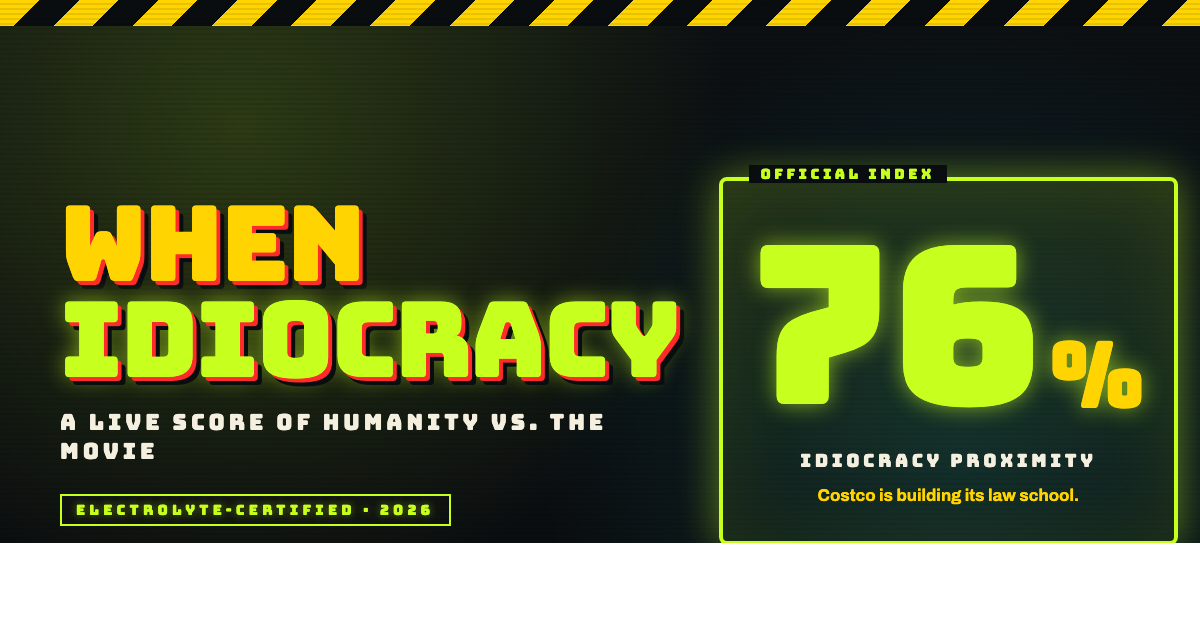
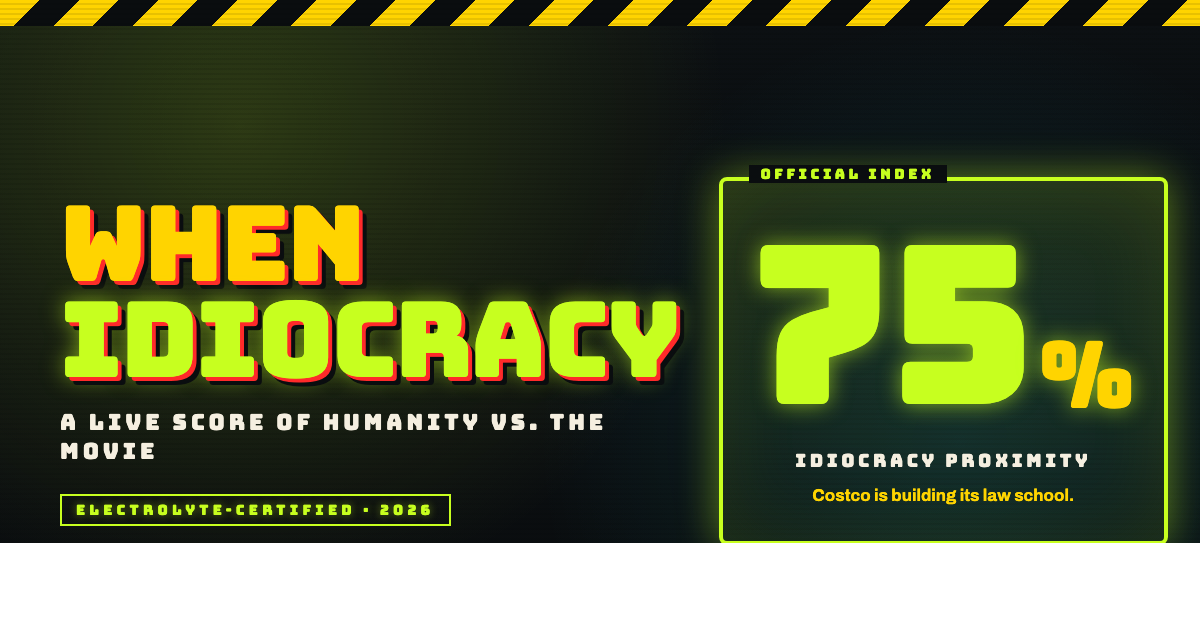
Lightning bolts + 5 new tells + script easter eggs
Stars → bolts
- The star icon is replaced by a Brawndo-style lightning bolt, tying the
  index to the movie's single most-quoted line ("electrolytes"). Bolts
  glow yellow idle, green when active, and one bolt at a time flickers on
  an 8-second idle animation.

New tells (14 → 19)
- oscar-for-ass       — spectacle-as-prestige (6 Underground, Barbie, AI slop)
- kim-k-lawyer        — law by TV/TikTok (Kardashian bar, Avianca ChatGPT brief)
- prison-entertainment — felons as celebrities (hot-felon, Jan 6 candidates,
                        Squid Game: The Challenge)
- liquid-food         — Beef-A-Reeno (Soylent, Huel, ultra-processed, GLP-1 collapse)
- mass-debaters       — 'batin' as product category (doomscrolling, Pornhub traffic,
                        Pew teen stats, Meta watch-time)

Easter eggs from the script
- Type "brawndo"  → 40 Brawndo cans rain + "IT'S GOT WHAT PLANTS CRAVE" banner
- Type "batin"    → flashing "GO AWAY, 'BATIN'!" toast
- Type "camacho"  → Camacho title-card toast
- Konami code     → toggles "Not Sure" mode — score gets a wobbly "?",
                   per-tell % gets "ish", label gains "...i think"
- URL hashes #brawndo / #batin / #notsure trigger the same
- Verdict in the gauge quietly rotates through secret movie lines every 22s
  ("I like money.", "Brawndo: the thirst mutilator.", "Ow, my balls.", etc.)
- Console shows a hint line on page load

OG card regenerated at the new 75% score.

diff --git a/data.js b/data.js
@@ -289,5 +289,105 @@ const TELLS = [
         title: "AI companion apps (Replika, Character.ai) pivot to paid romantic roleplay",
         source: "Wikipedia — Replika", url: "https://en.wikipedia.org/wiki/Replika" }
     ]
+  },
+  {
+    id: "oscar-for-ass",
+    title: "'Ass' wins Best Picture — spectacle beats story",
+    movie: "The #1 film of 2505 is a 90-minute shot of a man's rear end. It sweeps the Oscars.",
+    trend: "rising",
+    stars: [
+      { pct: 42, date: "Dec 13, 2019",
+        title: "Michael Bay's '6 Underground' — 83M Netflix views despite 36% Rotten Tomatoes",
+        source: "Wikipedia", url: "https://en.wikipedia.org/wiki/6_Underground_(film)" },
+      { pct: 56, date: "Jul 21, 2023",
+        title: "Barbie — a toy-brand IP film — grosses $1.45B, #1 film of the year",
+        source: "Wikipedia", url: "https://en.wikipedia.org/wiki/Barbie_(film)" },
+      { pct: 66, date: "May 2024",
+        title: "Spotify purges 'tens of millions' of AI-generated tracks gaming charts",
+        source: "Reuters", url: "https://www.reuters.com/technology/spotify-looks-crack-down-ai-generated-music-2024-04-09/" },
+      { pct: 72, date: "2023–present",
+        title: "Netflix top-10 increasingly dominated by minimal-effort reality and 'slop' content",
+        source: "Wikipedia — Content farm", url: "https://en.wikipedia.org/wiki/Content_farm" }
+    ]
+  },
+  {
+    id: "kim-k-lawyer",
+    title: "Law degrees by TV commercial",
+    movie: "Frito Pendejo, attorney at law. Extracto will extract a settlement. Please call.",
+    trend: "rising",
+    stars: [
+      { pct: 38, date: "Dec 13, 2021",
+        title: "Kim Kardashian passes California 'baby bar' via non-traditional study route",
+        source: "BBC", url: "https://www.bbc.com/news/world-us-canada-59644068" },
+      { pct: 54, date: "May 27, 2023",
+        title: "NY lawyer Steven Schwartz files ChatGPT brief citing hallucinated cases",
+        source: "NYT", url: "https://www.nytimes.com/2023/05/27/nyregion/avianca-airline-lawsuit-chatgpt.html" },
+      { pct: 66, date: "2021–present",
+        title: "TikTok attorneys drive mass class-action sign-ups via viral clips",
+        source: "ABA Journal", url: "https://www.abajournal.com/web/article/tiktok-is-the-new-ambulance-lawyers-go-viral" },
+      { pct: 71, date: "Jun 22, 2023",
+        title: "Judges issue first standing orders banning AI-generated filings without disclosure",
+        source: "Reuters", url: "https://www.reuters.com/legal/transactional/more-us-judges-issue-rules-courtroom-use-generative-ai-2023-09-08/" }
+    ]
+  },
+  {
+    id: "prison-entertainment",
+    title: "Rehabilitation Through Entertainment",
+    movie: "Prisoners drive Monster Trucks at 'Monday Night Rehabilitation' for the cheering crowds.",
+    trend: "rising",
+    stars: [
+      { pct: 38, date: "Jun 2014",
+        title: "Jeremy Meeks — the 'hot felon' — lands a modeling contract from his mugshot",
+        source: "Wikipedia", url: "https://en.wikipedia.org/wiki/Jeremy_Meeks" },
+      { pct: 52, date: "2018–present",
+        title: "True crime is the #1 podcast genre in the US for 6+ years running",
+        source: "Wikipedia", url: "https://en.wikipedia.org/wiki/True_crime" },
+      { pct: 66, date: "Nov 22, 2023",
+        title: "Squid Game: The Challenge — real people compete in the show's dystopian games",
+        source: "Wikipedia", url: "https://en.wikipedia.org/wiki/Squid_Game:_The_Challenge" },
+      { pct: 73, date: "2022–present",
+        title: "Jan 6 rioters run for Congress; mugshots become campaign merchandise",
+        source: "AP News", url: "https://apnews.com/article/jan-6-capitol-riot-defendants-congress-elections-0d60d7fbb8b8842bb3c3d547cb1c0b3b" }
+    ]
+  },
+  {
+    id: "liquid-food",
+    title: "Food is just colored liquid",
+    movie: "Meals come in buckets of grey slurry. Beef-A-Reeno: 'It's what you crave.'",
+    trend: "rising",
+    stars: [
+      { pct: 40, date: "May 14, 2013",
+        title: "Soylent launches — a beige liquid designed to replace all meals",
+        source: "Wikipedia", url: "https://en.wikipedia.org/wiki/Soylent_(meal_replacement)" },
+      { pct: 55, date: "2019–present",
+        title: "Huel, Ka'Chava, and liquid-meal brands become a multi-billion-dollar category",
+        source: "Wikipedia — Huel", url: "https://en.wikipedia.org/wiki/Huel" },
+      { pct: 66, date: "Aug 7, 2019",
+        title: "BMJ: 60% of US daily calories come from ultra-processed foods",
+        source: "BMJ", url: "https://www.bmj.com/content/365/bmj.l1451" },
+      { pct: 71, date: "Oct 2023",
+        title: "Snack-food makers report demand collapse attributed to GLP-1 drug surge",
+        source: "WSJ", url: "https://www.wsj.com/business/retail/ozempic-snack-food-sales-nestle-walmart-a2f6ba33" }
+    ]
+  },
+  {
+    id: "mass-debaters",
+    title: "'Batin': mass-scale doomscroll entertainment",
+    movie: "On a commercial break: 'Go away, batin'!' Public mass-masturbation is a product category.",
+    trend: "rising",
+    stars: [
+      { pct: 42, date: "2019–present",
+        title: "Pornhub consistently ranks among the world's top 15 most-visited websites",
+        source: "Wikipedia — Pornhub", url: "https://en.wikipedia.org/wiki/Pornhub" },
+      { pct: 56, date: "Nov 23, 2020",
+        title: "Oxford lists 'doomscrolling' as a 2020 Word of the Year finalist",
+        source: "Wikipedia", url: "https://en.wikipedia.org/wiki/Doomscrolling" },
+      { pct: 68, date: "Oct 25, 2021",
+        title: "Leaked memos: Instagram explicitly optimizes for watch-time over wellbeing",
+        source: "Wikipedia — Facebook Papers", url: "https://en.wikipedia.org/wiki/Facebook_Papers" },
+      { pct: 75, date: "Dec 11, 2023",
+        title: "Pew: half of US teens report being online 'almost constantly'",
+        source: "Pew Research", url: "https://www.pewresearch.org/internet/2023/12/11/teens-social-media-and-technology-2023/" }
+    ]
   }
 ];

diff --git a/script.js b/script.js
@@ -1,8 +1,17 @@
-// Render tells, stars, and animate the total score.
+// Render tells, stars (now lightning bolts), and animate the total score.
 
+// Brawndo-style lightning bolt — the movie's single most iconic visual.
 const STAR_SVG = `
 <svg viewBox="0 0 24 24" aria-hidden="true">
-  <path d="M12 1.5 L15 8.5 L22.5 9.3 L16.8 14.2 L18.5 21.5 L12 17.8 L5.5 21.5 L7.2 14.2 L1.5 9.3 L9 8.5 Z"/>
+  <path d="M14 1 L4 13 L10.5 13 L9 23 L20 10 L13 10 Z"/>
+</svg>`;
+
+// Easter-egg-only — a teeny Brawndo can for the brawndo-rain gag.
+const CAN_SVG = `
+<svg viewBox="0 0 20 32" aria-hidden="true">
+  <rect x="2" y="4" width="16" height="26" rx="2" ry="2" fill="#c7ff1f" stroke="#0a0d0f" stroke-width="1.5"/>
+  <rect x="2" y="4" width="16" height="4" fill="#94c800"/>
+  <path d="M7 14 L5 20 L9 20 L8 27 L14 18 L10 18 L12 14 Z" fill="#ffd400" stroke="#0a0d0f" stroke-width="0.8"/>
 </svg>`;
 
 function escapeHtml(s) {
@@ -209,8 +218,124 @@ function init() {
 
   wireStars();
   wireSubmitButton();
+  wireEasterEggs(total);
 
   document.getElementById("verdict").textContent = verdictFor(total);
+}
+
+/* ============================================================
+   EASTER EGGS — quotes, konami, brawndo rain, hash triggers.
+   ============================================================ */
+
+const SECRET_QUOTES = [
+  "Brawndo: the thirst mutilator.",
+  "I like money.",
+  "You talk like a fag, and your shit's all retarded.",
+  "I know shit's bad right now.",
+  "Ow, my balls.",
+  "Go away, 'batin'!",
+  "Welcome to Costco. I love you."
+];
+
+function flashToast(text) {
+  const t = document.createElement("div");
+  t.className = "toast";
+  t.textContent = text;
+  document.body.appendChild(t);
+  requestAnimationFrame(() => t.classList.add("on"));
+  setTimeout(() => {
+    t.classList.remove("on");
+    setTimeout(() => t.remove(), 400);
+  }, 2400);
+}
+
+function brawndoRain(duration = 3500) {
+  if (document.body.classList.contains("brawndo-mode")) return;
+  document.body.classList.add("brawndo-mode");
+  const root = document.createElement("div");
+  root.className = "rain";
+  document.body.appendChild(root);
+  const COUNT = 40;
+  for (let i = 0; i < COUNT; i++) {
+    const can = document.createElement("div");
+    can.className = "drop";
+    can.innerHTML = CAN_SVG;
+    can.style.left = (Math.random() * 100) + "vw";
+    can.style.animationDuration = (1.6 + Math.random() * 1.8) + "s";
+    can.style.animationDelay = (Math.random() * 0.8) + "s";
+    can.style.transform = `rotate(${Math.random() * 40 - 20}deg)`;
+    root.appendChild(can);
+  }
+  flashToast("IT'S GOT WHAT PLANTS CRAVE");
+  setTimeout(() => {
+    root.remove();
+    document.body.classList.remove("brawndo-mode");
+  }, duration);
+}
+
+function toggleNotSureMode() {
+  document.body.classList.toggle("not-sure");
+  flashToast(document.body.classList.contains("not-sure")
+    ? "NOT SURE IF MODE ENABLED..."
+    : "Mode: certain again.");
+}
+
+function wireEasterEggs(total) {
+  // 1. Type "brawndo" anywhere → electrolyte rain.
+  let buf = "";
+  const TARGETS = { "brawndo": brawndoRain, "batin": () => flashToast("GO AWAY, 'BATIN'!"), "camacho": () => flashToast("CAMACHO — FIVE-TIME SMACKDOWN CHAMPION!") };
+  document.addEventListener("keydown", (e) => {
+    if (e.key.length !== 1) return;
+    if (e.target && e.target.matches && e.target.matches("input, textarea")) return;
+    buf = (buf + e.key.toLowerCase()).slice(-12);
+    for (const [word, fn] of Object.entries(TARGETS)) {
+      if (buf.endsWith(word)) { fn(); buf = ""; return; }
+    }
+  });
+
+  // 2. Konami code → Not-Sure mode toggle.
+  const KONAMI = ["ArrowUp","ArrowUp","ArrowDown","ArrowDown","ArrowLeft","ArrowRight","ArrowLeft","ArrowRight","b","a"];
+  let kIdx = 0;
+  document.addEventListener("keydown", (e) => {
+    const want = KONAMI[kIdx];
+    const got = (e.key.length === 1) ? e.key.toLowerCase() : e.key;
+    if (got === want) {
+      kIdx++;
+      if (kIdx === KONAMI.length) { toggleNotSureMode(); kIdx = 0; }
+    } else {
+      kIdx = (got === KONAMI[0]) ? 1 : 0;
+    }
+  });
+
+  // 3. URL hash triggers.
+  function handleHash() {
+    const h = location.hash.slice(1).toLowerCase();
+    if (h === "batin") flashToast("GO AWAY, 'BATIN'!");
+    else if (h === "brawndo") brawndoRain();
+    else if (h === "notsure") toggleNotSureMode();
+  }
+  window.addEventListener("hashchange", handleHash);
+  handleHash();
+
+  // 4. Verdict cycles through movie lines on a long, forgiving interval.
+  const verdictEl = document.getElementById("verdict");
+  let showingSecret = false;
+  setInterval(() => {
+    if (!verdictEl || document.body.classList.contains("not-sure")) return;
+    if (showingSecret) {
+      verdictEl.textContent = verdictFor(total);
+    } else {
+      verdictEl.textContent = SECRET_QUOTES[Math.floor(Math.random() * SECRET_QUOTES.length)];
+    }
+    verdictEl.classList.add("blip");
+    setTimeout(() => verdictEl.classList.remove("blip"), 400);
+    showingSecret = !showingSecret;
+  }, 22000);
+
+  // 5. Console Easter egg.
+  const style = "background:#c7ff1f;color:#0a0d0f;padding:6px 10px;font-weight:900;font-size:14px;";
+  console.log("%c Welcome to Costco. I love you. ", style);
+  console.log("%c Try typing: brawndo · batin · camacho   — or press ↑↑↓↓←→←→BA ", "color:#ffd400;font-style:italic;");
 }
 
 // Pre-fill a GitHub issue when the user clicks "SUBMIT A STAR".

diff --git a/styles.css b/styles.css
@@ -379,14 +379,22 @@ a:hover { color: var(--brawndo); }
   filter: drop-shadow(0 0 12px rgba(199,255,31,0.95));
 }
 
-.star svg { width: 24px; height: 24px; display: block; pointer-events: none; }
+.star svg { width: 26px; height: 26px; display: block; pointer-events: none; }
 .star svg path {
   fill: var(--hazard);
   stroke: var(--ink);
-  stroke-width: 1;
-  filter: drop-shadow(0 0 6px rgba(255,212,0,0.9));
+  stroke-width: 1.2;
+  stroke-linejoin: round;
+  filter: drop-shadow(0 0 7px rgba(255,212,0,0.95));
   transition: fill .15s;
 }
+/* idle shimmer — one bolt at a time flickers every 8s */
+@keyframes bolt-flicker {
+  0%, 92%, 100% { filter: drop-shadow(0 0 7px rgba(255,212,0,0.95)); }
+  94% { filter: drop-shadow(0 0 14px rgba(199,255,31,1)); fill: var(--brawndo); }
+  96% { filter: drop-shadow(0 0 4px rgba(255,212,0,0.4)); }
+}
+.star.lit svg path { animation: bolt-flicker 8s ease-in-out infinite; }
 
 /* --- inline detail panel --- */
 .detail {
@@ -573,4 +581,81 @@ footer .carls {
   .hero { padding-top: 54px; }
   .star .card { width: 200px; }
   .tells { margin-top: 48px; }
+}
+
+/* ============================================================
+   EASTER EGGS — toast, Brawndo rain, Not-Sure mode
+   ============================================================ */
+.toast {
+  position: fixed;
+  left: 50%; top: 80px;
+  transform: translate(-50%, -20px) scale(0.95);
+  background: var(--ink);
+  color: var(--brawndo);
+  border: 3px solid var(--brawndo);
+  padding: 14px 22px;
+  font-family: 'Bungee', sans-serif;
+  letter-spacing: 0.24em;
+  font-size: 18px;
+  border-radius: 4px;
+  box-shadow: 0 0 32px rgba(199,255,31,0.7);
+  opacity: 0;
+  pointer-events: none;
+  z-index: 10000;
+  transition: transform .35s cubic-bezier(.2,1.3,.4,1), opacity .25s;
+}
+.toast.on {
+  transform: translate(-50%, 0) scale(1);
+  opacity: 1;
+  animation: toast-flicker 0.5s linear infinite;
+}
+@keyframes toast-flicker {
+  0%,100% { text-shadow: 0 0 4px var(--brawndo); }
+  50% { text-shadow: 0 0 12px var(--brawndo), 0 0 2px #fff; }
+}
+
+.rain {
+  position: fixed; inset: 0;
+  pointer-events: none;
+  z-index: 9996;
+}
+.rain .drop {
+  position: absolute;
+  top: -40px;
+  width: 24px;
+  animation: drop-fall 2s linear forwards;
+  filter: drop-shadow(0 0 6px rgba(199,255,31,0.55));
+}
+.rain .drop svg { width: 100%; height: auto; display: block; }
+@keyframes drop-fall {
+  0%   { top: -40px;  opacity: 0; }
+  10%  { opacity: 1; }
+  100% { top: 110vh; opacity: 1; }
+}
+
+body.brawndo-mode .hero h1 .idiocracy { animation: flicker 0.6s infinite; }
+
+/* Not-Sure mode — everything gets interrogative, gauge becomes slightly ambivalent. */
+body.not-sure .total .big::after {
+  content: "?";
+  font-size: 0.7em;
+  color: var(--blood);
+  margin-left: 10px;
+  animation: wobble 1.1s ease-in-out infinite;
+}
+body.not-sure .tell-foot .score::after {
+  content: " ish";
+  color: var(--blood);
+  font-size: 10px;
+}
+body.not-sure .total .label::after { content: " ...i think"; color: var(--blood); }
+@keyframes wobble {
+  0%,100% { transform: rotate(-6deg); }
+  50%     { transform: rotate(8deg); }
+}
+
+.verdict.blip { animation: blip 0.4s ease-in-out; }
+@keyframes blip {
+  0%   { opacity: 0.2; transform: translateY(-2px); }
+  100% { opacity: 1;   transform: translateY(0); }
 }

diff --git a/index.html b/index.html
@@ -38,8 +38,8 @@
 
     <p class="intro">
       In 2006, Mike Judge made a comedy. Increasingly, it reads like a documentary shot 500 years early.
-      Below: the movie's core tells, scored 0–100, each star a real-world news item or cultural signal pushing us closer.
-      Hover or tap a star to see the source. <strong>Click it</strong> to read it.
+      Below: the movie's core tells, scored 0–100. Each bolt ⚡ is a real-world news item pushing us closer —
+      <strong>click any bolt</strong> to see the source. There are secrets. Try typing <code>brawndo</code>.
     </p>
 
     <div class="total">
